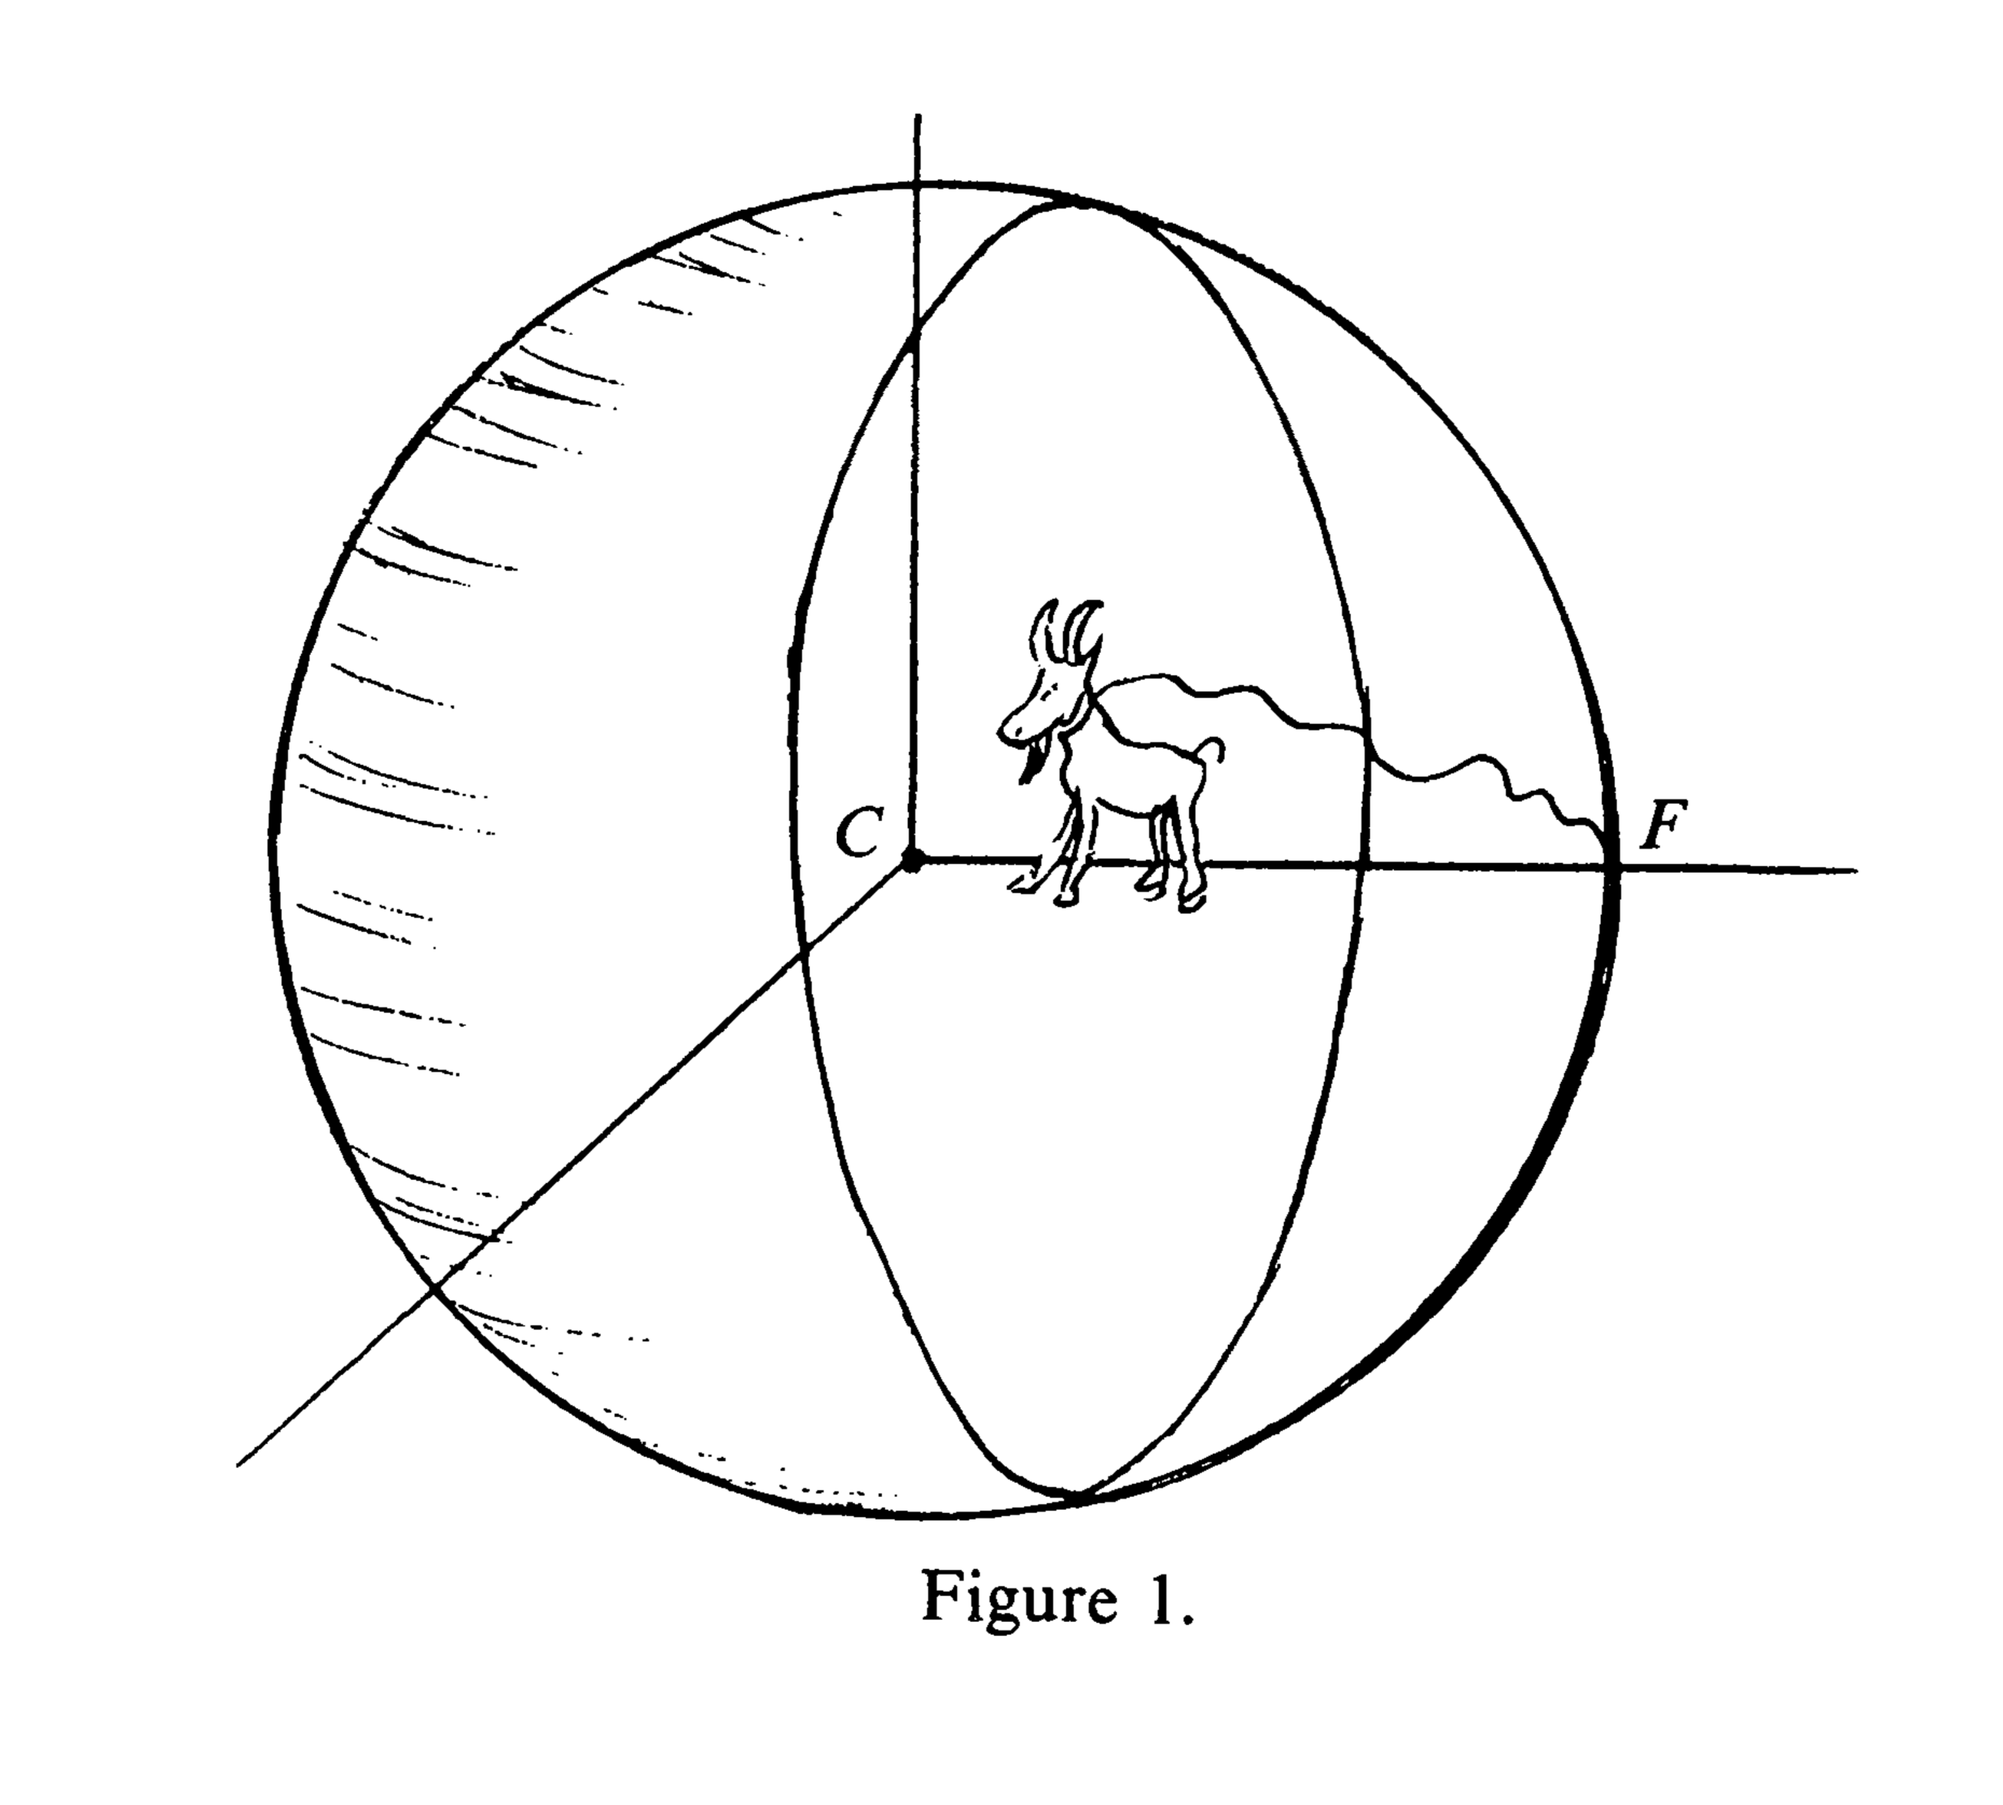
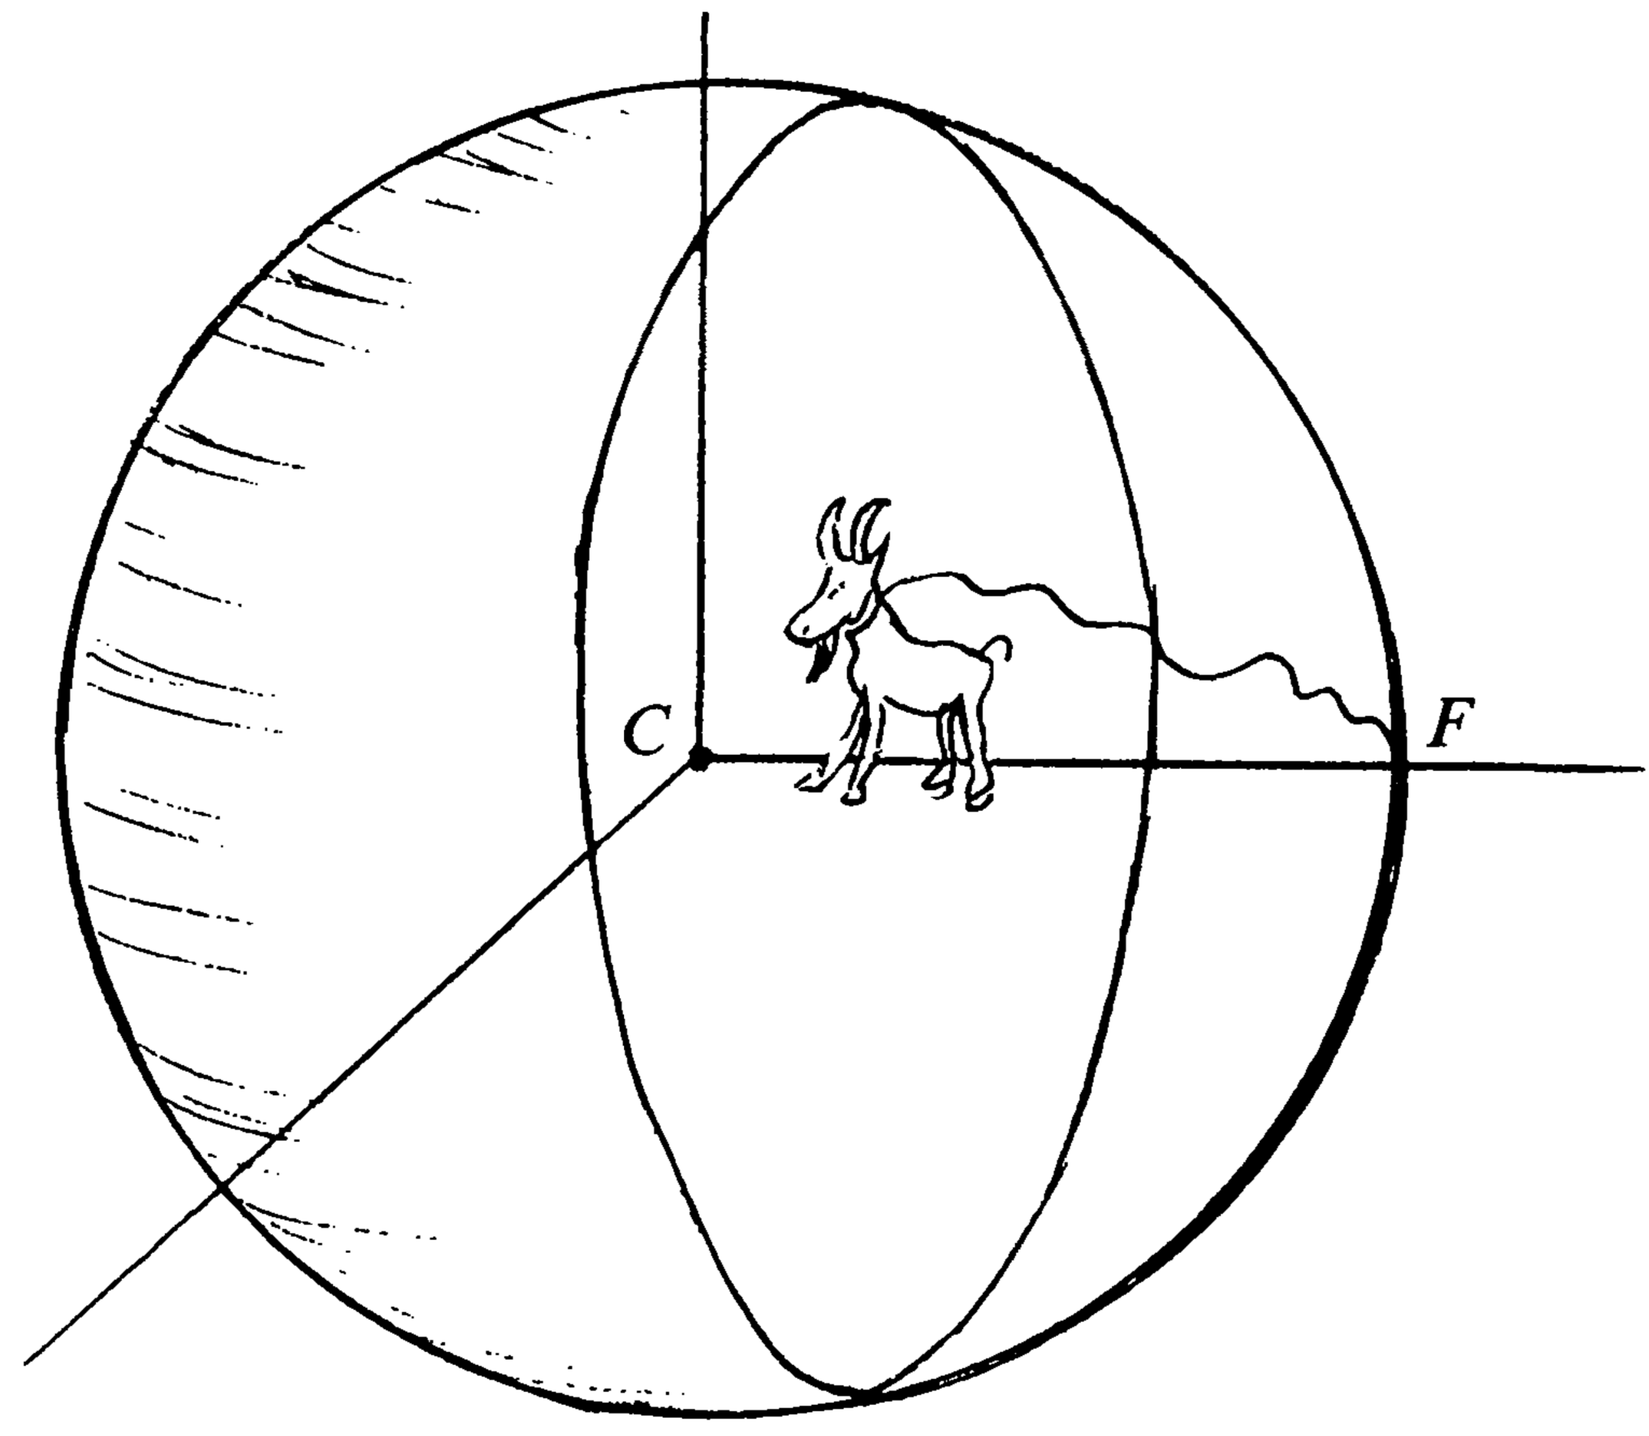
goldman meeting

diff --git a/goldman19.html b/goldman19.html
@@ -18,7 +18,7 @@ name:opening
 
 Joshua T. Vogelstein
 
-<img src="images/neurodata_purple.png" style="height:350px; float:right;"/>
+<img src="images/neurodata_purple.png" style="height:300px; float:right;"/>
 
 
 <br><br><br><br><br><br><br><br><br><br>
@@ -32,6 +32,7 @@ Joshua T. Vogelstein
 
 
 ---
+
 ### What is Big Biomedical Data Science? 
 
 
@@ -55,6 +56,7 @@ class: middle, inverse
 ## .center[Why is it hard?]
 
 ---
+
 
 ### Reason #1: Evolution 
 
@@ -84,9 +86,10 @@ class:inverse
 
 ---
 
+
 ### Reason #3: Grazing Goat Starves
 
-<img src="images/grazing-goat2.png" STYLE="width:100%"/>
+<img src="images/grazing-goat2.png" STYLE="width:80%"/>
 
 
 ---
